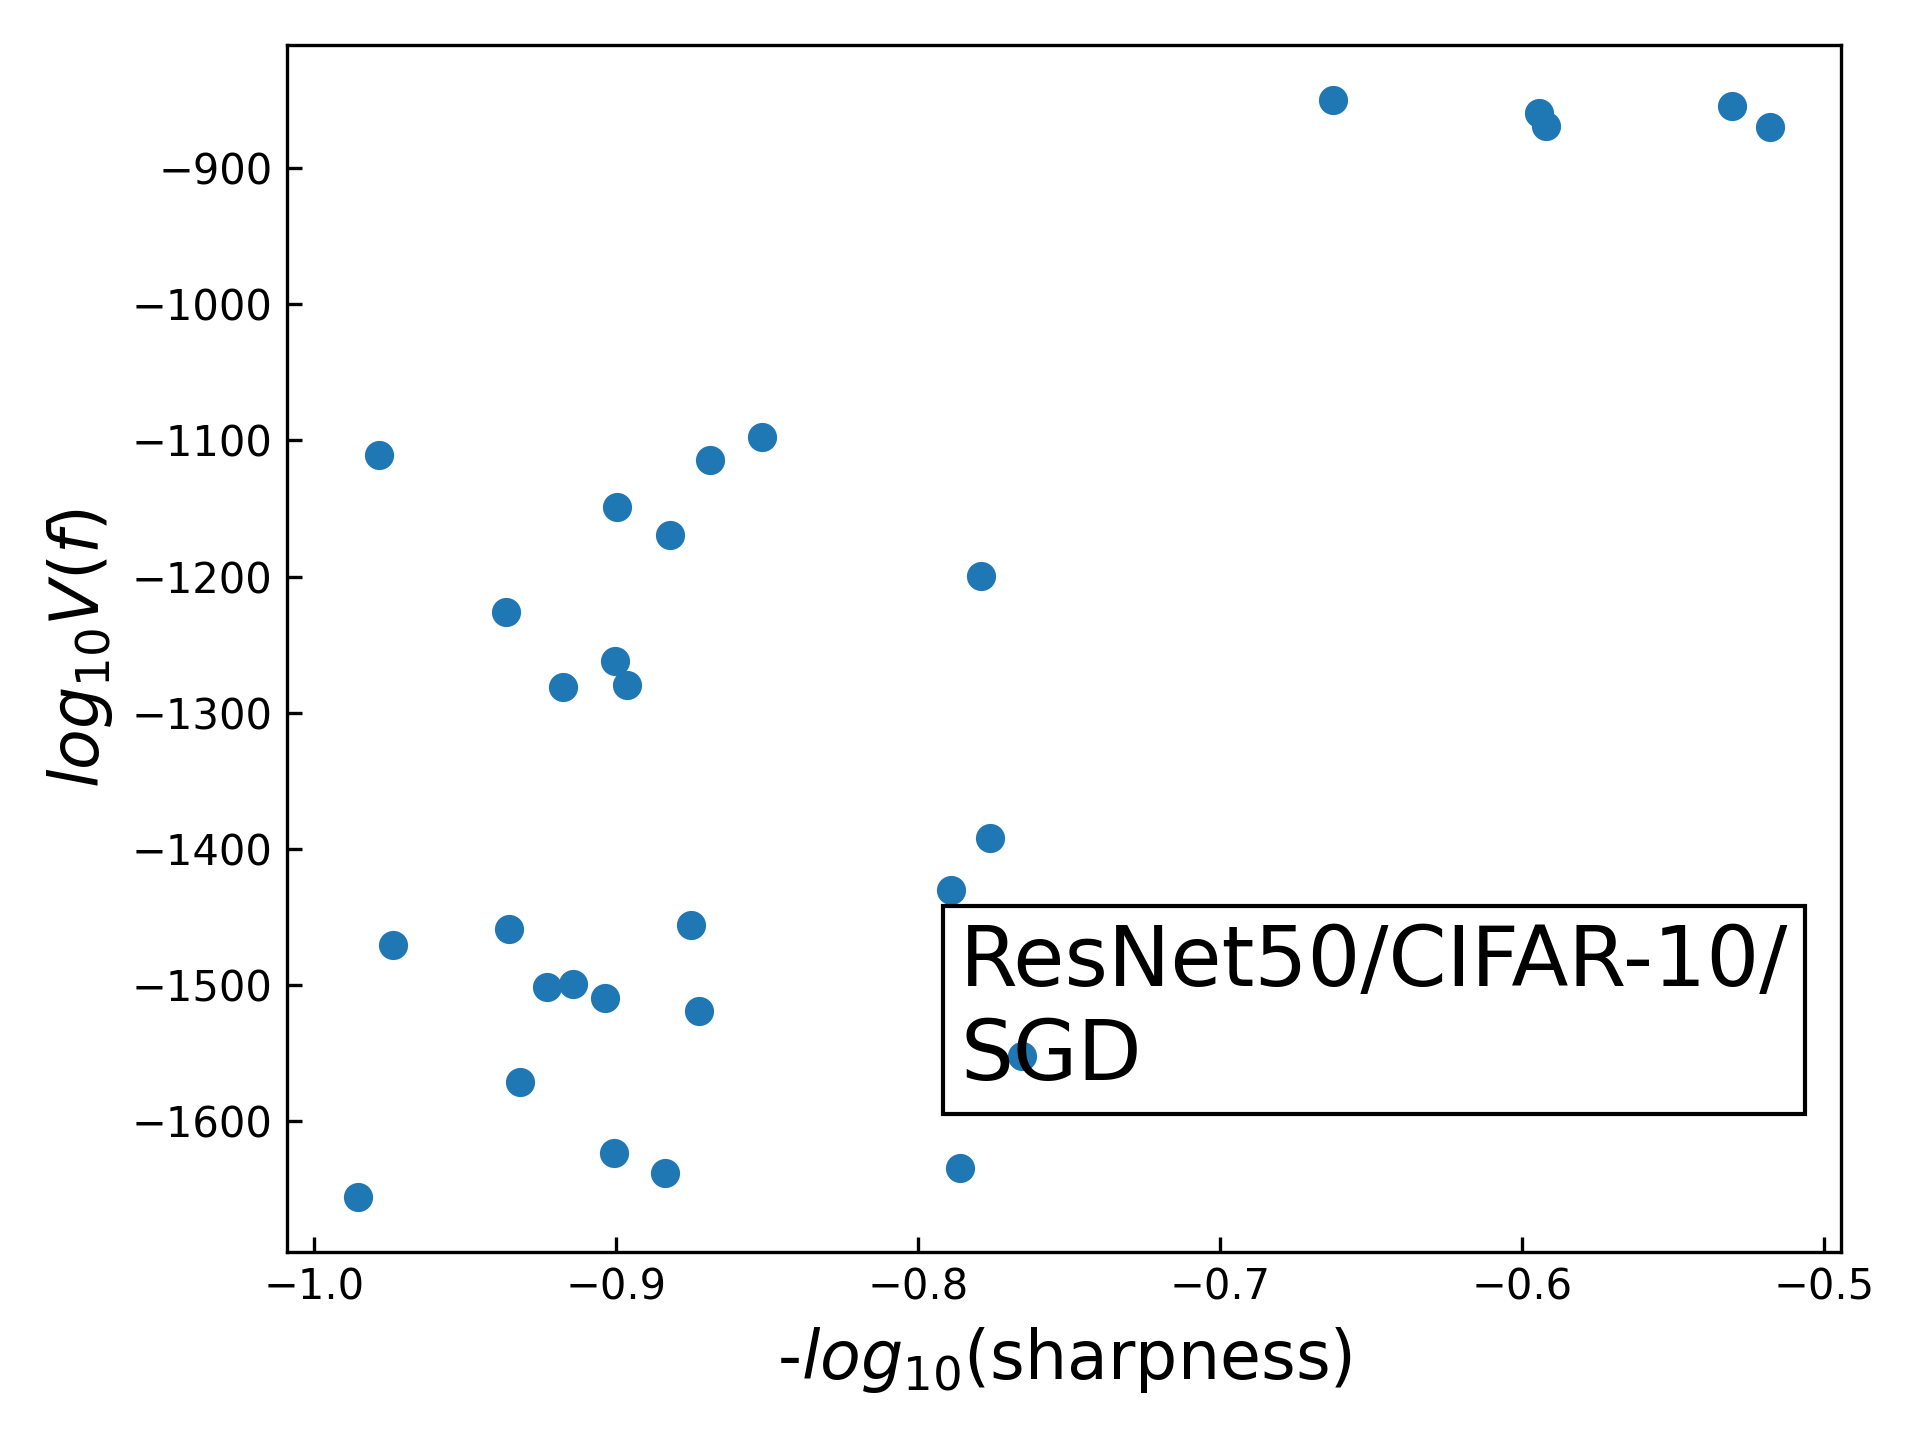
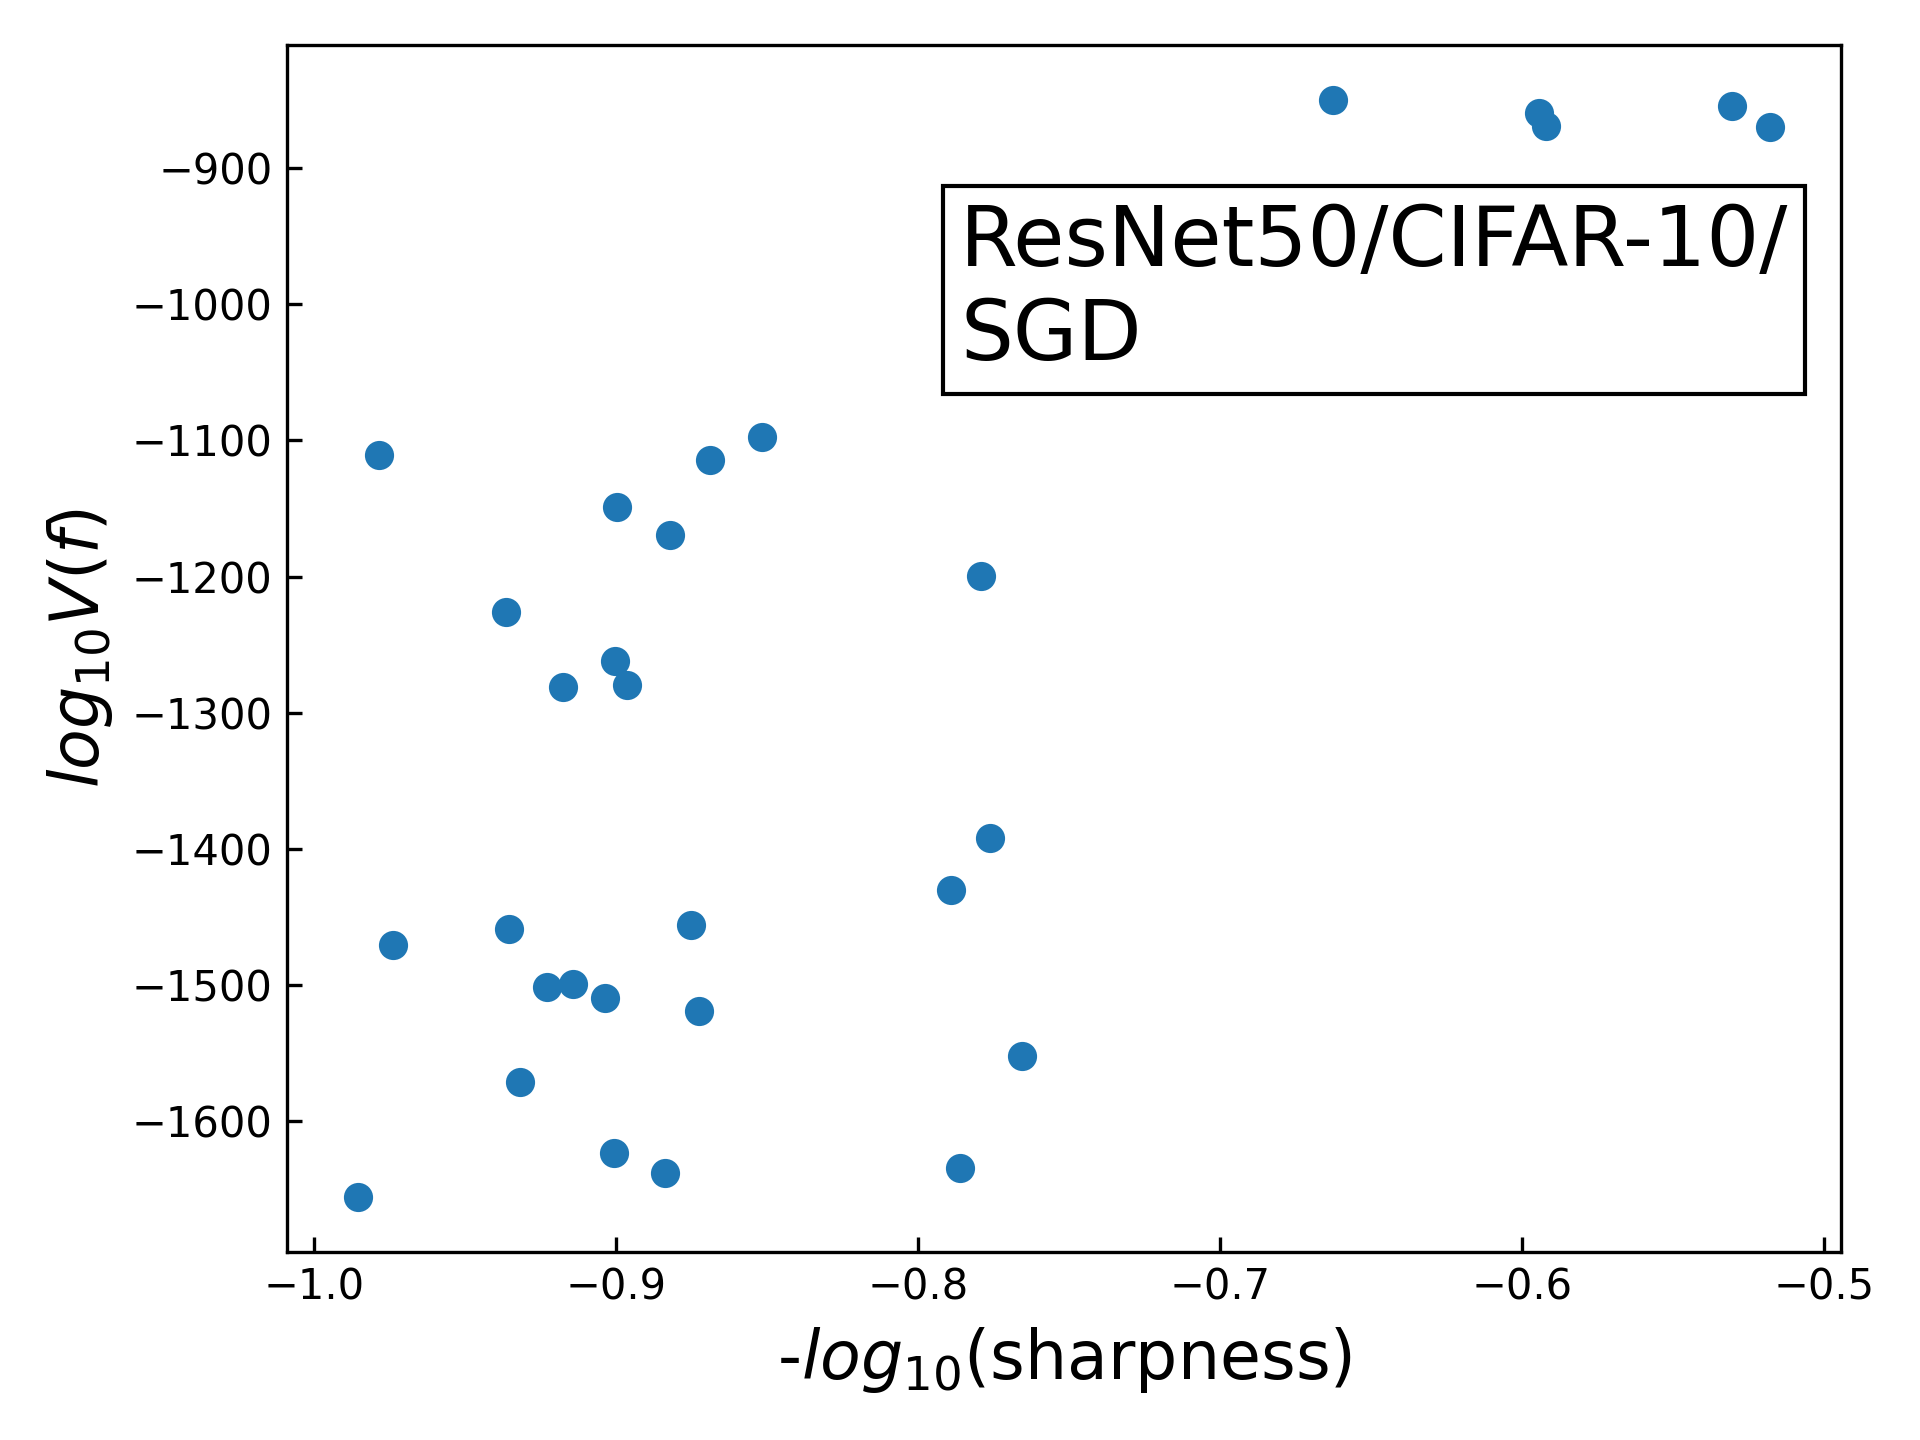
update pics

Changed region(s): [[0.5, 0.625, 0.9375, 0.75], [0.5, 0.125, 0.9375, 0.25]]

diff --git a/playground/volume/attack_sets/SGD/gpu-short/0-3000/collect-plot-log10.py b/playground/volume/attack_sets/SGD/gpu-short/0-3000/collect-plot-log10.py
@@ -184,7 +184,7 @@ ax.scatter(-sharpness,volume)
 ax.set_xlabel(r'-$log_{10}$(sharpness)',fontdict={'fontsize': 16, 'fontweight': 'medium'})
 ax.set_ylabel(r'$log_{10}V(f)$',fontdict={'fontsize': 16, 'fontweight': 'medium'})
 ax.tick_params(direction='in')
-fig.text(0.5,0.25,'ResNet50/CIFAR-10/\nSGD', bbox=dict(facecolor='none'), fontsize=20)
+fig.text(0.5,0.75,'ResNet50/CIFAR-10/\nSGD', bbox=dict(facecolor='none'), fontsize=20)
 fig.savefig('sharpness-volume-resnet50-SGD.png', dpi=300)
 plt.clf()
 
